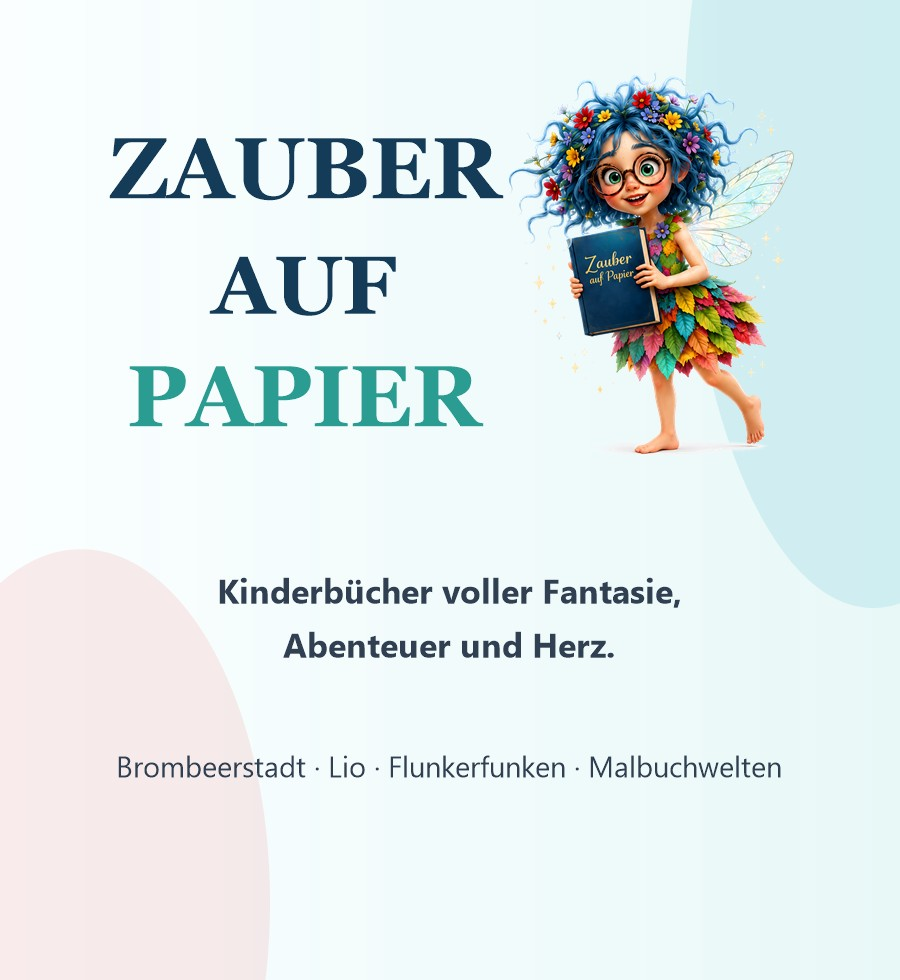
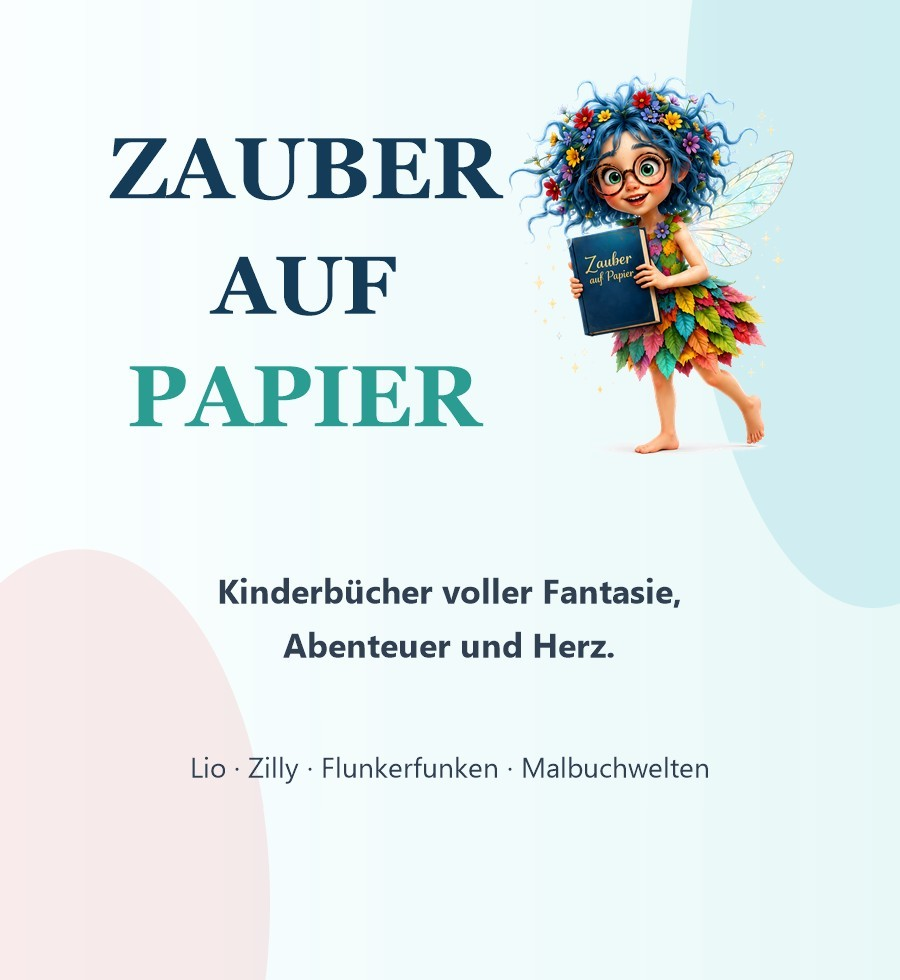
Update story links and homepage previews

Changed region(s): [[0.1244, 0.7653, 0.8711, 0.7959]]

diff --git a/index.html b/index.html
@@ -656,7 +656,7 @@
         position: relative;
         margin: 18px 18px 0;
         overflow: hidden;
-        aspect-ratio: 1.06;
+        aspect-ratio: 1 / 1;
         border-radius: 24px;
         background: var(--cloud);
       }
@@ -737,7 +737,7 @@
       .book-cover {
         position: relative;
         overflow: hidden;
-        aspect-ratio: 0.78;
+        aspect-ratio: 1 / 1;
         border-radius: 20px;
         background: var(--white);
         box-shadow:
@@ -934,7 +934,7 @@
       }
 
       .project-thumb {
-        aspect-ratio: 1.55;
+        aspect-ratio: 1 / 1;
         overflow: hidden;
         background: var(--cloud);
       }
@@ -1308,14 +1308,14 @@
           <div class="world-grid">
             <article class="world-card sage">
               <div class="world-media">
-                <img src="images/home-world-brombeerstadt.jpg" alt="Illustration aus der Brombeerstadt-Welt" />
+                <img src="images/home-world-geschichtenreich.jpg" alt="Illustration aus dem Geschichtenreich" />
               </div>
               <div class="world-content">
                 <span class="world-icon" aria-hidden="true">
                   <svg viewBox="0 0 24 24"><path d="M7 9c-2.2 0-4 1.8-4 4s1.8 4 4 4c1.3 0 2.4-.6 3.1-1.5.7.9 1.8 1.5 3.1 1.5 2.2 0 4-1.8 4-4S15.4 9 13.2 9c-1.3 0-2.4.6-3.1 1.5C9.4 9.6 8.3 9 7 9z" fill="currentColor"/><path d="M13 7c.7-2 2.2-3.2 4.5-3.5.1 2.2-1.1 3.9-3.4 4.8" fill="none" stroke="currentColor" stroke-width="1.8" stroke-linecap="round"/></svg>
                 </span>
-                <h3>Brombeerstadt</h3>
-                <p>Beerenmagie, kleine Geheimnisse und warme Vorlesemomente für neugierige Kinder.</p>
+                <h3>Geschichtenreich</h3>
+                <p>Liebevolle Einzelgeschichten, kleine Geheimnisse und warme Vorlesemomente für neugierige Kinder.</p>
                 <a class="world-link" href="seiten/geschichtenreich.html">Mehr entdecken →</a>
               </div>
             </article>
@@ -1375,46 +1375,46 @@
 
           <div class="book-shelf">
             <article class="book-card">
-              <a class="book-cover" href="seiten/geschichtenreich.html">
+              <a class="book-cover" href="https://www.amazon.de/dp/B0F3XQ4QVY" data-popup-link>
                 <img src="images/home-book-lio.jpg" alt="Lio Herzfunken - Ein Drache hebt ab" />
               </a>
               <div class="book-info">
                 <h3>Lio Herzfunken</h3>
                 <p>Zum Vorlesen und Selberlesen mit Drachenmut.</p>
-                <a href="seiten/geschichtenreich.html">Ansehen →</a>
+                <a href="https://www.amazon.de/dp/B0F3XQ4QVY" data-popup-link>Jetzt ansehen</a>
               </div>
             </article>
 
             <article class="book-card">
-              <a class="book-cover" href="seiten/geschichtenreich.html">
+              <a class="book-cover" href="https://www.amazon.de/dp/B0H2RJN6XR" data-popup-link>
                 <img src="images/home-book-zilly.jpg" alt="Zilly Zitro und der Limonadenzauber" />
               </a>
               <div class="book-info">
                 <h3>Zilly Zitro</h3>
                 <p>Ein sanftes Abenteuer mit Limonadenmagie.</p>
-                <a href="seiten/geschichtenreich.html">Ansehen →</a>
+                <a href="https://www.amazon.de/dp/B0H2RJN6XR" data-popup-link>Jetzt ansehen</a>
               </div>
             </article>
 
             <article class="book-card">
-              <a class="book-cover" href="seiten/geschichtenreich.html">
+              <a class="book-cover" href="https://www.amazon.de/dp/B0FPQDR443" data-popup-link>
                 <img src="images/home-book-lolle.jpg" alt="Lolle Löckchen und der verschwundene Glitzertag" />
               </a>
               <div class="book-info">
                 <h3>Lolle Löckchen</h3>
                 <p>Gefühle verstehen, stärken und gemeinsam wachsen.</p>
-                <a href="seiten/geschichtenreich.html">Ansehen →</a>
+                <a href="https://www.amazon.de/dp/B0FPQDR443" data-popup-link>Jetzt ansehen</a>
               </div>
             </article>
 
             <article class="book-card">
-              <a class="book-cover" href="seiten/geschichtenreich.html">
+              <a class="book-cover" href="https://www.amazon.de/dp/B0H2PWSHYJ" data-popup-link>
                 <img src="images/home-book-prinzessin-erdbeerschoen.jpg" alt="Prinzessin Erdbeerschön und der magische Wunschkuchen" />
               </a>
               <div class="book-info">
                 <h3>Prinzessin Erdbeerschön</h3>
                 <p>Ein süßer Wunschkuchen für kleine Träumer.</p>
-                <a href="seiten/geschichtenreich.html">Ansehen →</a>
+                <a href="https://www.amazon.de/dp/B0H2PWSHYJ" data-popup-link>Jetzt ansehen</a>
               </div>
             </article>
 
@@ -1425,7 +1425,7 @@
               <div class="book-info">
                 <h3>Flunkerfunken-Bande</h3>
                 <p>Magische Rätsel für kleine Spürnasen.</p>
-                <a href="seiten/serienzauber.html">Ansehen →</a>
+                <a href="seiten/serienzauber.html">Jetzt ansehen</a>
               </div>
             </article>
 
@@ -1436,7 +1436,7 @@
               <div class="book-info">
                 <h3>Wolkenhorn</h3>
                 <p>Zauberhafte Ausmalbilder mit weichen Linien.</p>
-                <a href="seiten/sternenmalerei.html">Ansehen →</a>
+                <a href="seiten/sternenmalerei.html">Jetzt ansehen</a>
               </div>
             </article>
           </div>

diff --git a/seiten/geschichtenreich.html b/seiten/geschichtenreich.html
@@ -41,7 +41,7 @@
           <h1>Geschichten aus dem Kinderbuchreich</h1>
           <p class="hero-copy">
             Diese Seite ist für liebevolle Einzelgeschichten, Vorlesemomente und kleine Abenteuer mit Herz.
-            Die Produktlinks werden später ergänzt.
+            Die Produktlinks öffnen sich in einem kleinen Popup, damit du die Seite im Blick behältst.
           </p>
           <div class="actions">
             <a class="button" href="mailto:nickifeller456@gmail.com?subject=Buchidee%20zu%20Zauber%20auf%20Papier">Buchidee anfragen</a>
@@ -64,13 +64,12 @@
             <article class="series-book">
               <a
                 class="series-cover-link"
-                href="mailto:nickifeller456@gmail.com?subject=Anfrage%20zu%20Lio%20Herzfunken"
-                data-coming-soon-link
-                data-book-title="Lio Herzfunken"
-                aria-label="Lio Herzfunken anfragen"
+                href="https://www.amazon.de/dp/B0F3XQ4QVY"
+                data-popup-link
+                aria-label="Lio Herzfunken jetzt ansehen"
               >
                 <img src="../images/lio-herzfunken-drache-hebt-ab.png" alt="Lio Herzfunken: Ein Drache hebt ab" />
-                <span class="series-overlay">Link folgt bald</span>
+                <span class="series-overlay">Jetzt ansehen</span>
               </a>
               <div class="series-meta">
                 <span>Zum Vorlesen & Selberlesen</span>
@@ -82,13 +81,12 @@
             <article class="series-book">
               <a
                 class="series-cover-link"
-                href="mailto:nickifeller456@gmail.com?subject=Anfrage%20zu%20Zilly%20Zitro"
-                data-coming-soon-link
-                data-book-title="Zilly Zitro"
-                aria-label="Zilly Zitro anfragen"
+                href="https://www.amazon.de/dp/B0H2RJN6XR"
+                data-popup-link
+                aria-label="Zilly Zitro jetzt ansehen"
               >
                 <img src="../images/zilly-zitro-limonadenzauber.png" alt="Zilly Zitro und der Limonadenzauber" />
-                <span class="series-overlay">Link folgt bald</span>
+                <span class="series-overlay">Jetzt ansehen</span>
               </a>
               <div class="series-meta">
                 <span>Magische Freundschaft</span>
@@ -100,13 +98,12 @@
             <article class="series-book">
               <a
                 class="series-cover-link"
-                href="mailto:nickifeller456@gmail.com?subject=Anfrage%20zu%20Lolle%20Loeckchen"
-                data-coming-soon-link
-                data-book-title="Lolle Löckchen"
-                aria-label="Lolle Löckchen anfragen"
+                href="https://www.amazon.de/dp/B0FPQDR443"
+                data-popup-link
+                aria-label="Lolle Löckchen jetzt ansehen"
               >
                 <img src="../images/lolle-loeckchen-glitzertag.png" alt="Lolle Löckchen: Wutmuffel und der verschwundene Glitzertag" />
-                <span class="series-overlay">Link folgt bald</span>
+                <span class="series-overlay">Jetzt ansehen</span>
               </a>
               <div class="series-meta">
                 <span>Gefühle verstehen</span>
@@ -118,13 +115,12 @@
             <article class="series-book">
               <a
                 class="series-cover-link"
-                href="mailto:nickifeller456@gmail.com?subject=Anfrage%20zu%20Prinzessin%20Erdbeerschoen"
-                data-coming-soon-link
-                data-book-title="Prinzessin Erdbeerschön"
-                aria-label="Prinzessin Erdbeerschön anfragen"
+                href="https://www.amazon.de/dp/B0H2PWSHYJ"
+                data-popup-link
+                aria-label="Prinzessin Erdbeerschön jetzt ansehen"
               >
                 <img src="../images/prinzessin-erdbeerschoen-wunschkuchen.png" alt="Prinzessin Erdbeerschön und der magische Wunschkuchen" />
-                <span class="series-overlay">Link folgt bald</span>
+                <span class="series-overlay">Jetzt ansehen</span>
               </a>
               <div class="series-meta">
                 <span>Für Kinder ab 3 Jahren</span>

diff --git a/seiten/seite.js b/seiten/seite.js
@@ -48,20 +48,5 @@
     });
   });
 
-  document.querySelectorAll("a[data-coming-soon-link]").forEach((link) => {
-    link.addEventListener("click", (event) => {
-      event.preventDefault();
-      const bookTitle = link.dataset.bookTitle || "dieses Buch";
-
-      showFallback({
-        title: "Amazon-Link folgt bald",
-        text: `Der Produktlink für ${bookTitle} wird später ergänzt. Bis dahin kannst du per E-Mail anfragen.`,
-        href: link.href,
-        label: "Per E-Mail anfragen",
-        target: "",
-      });
-    });
-  });
-
   closeButton?.addEventListener("click", () => fallback?.close());
 })();
